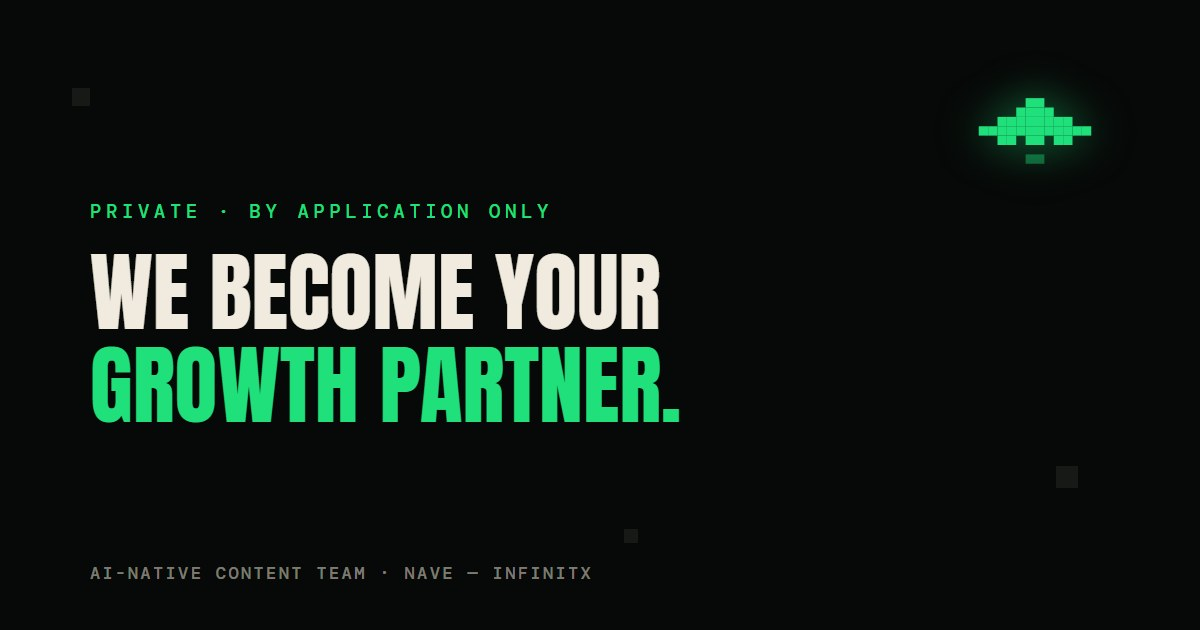
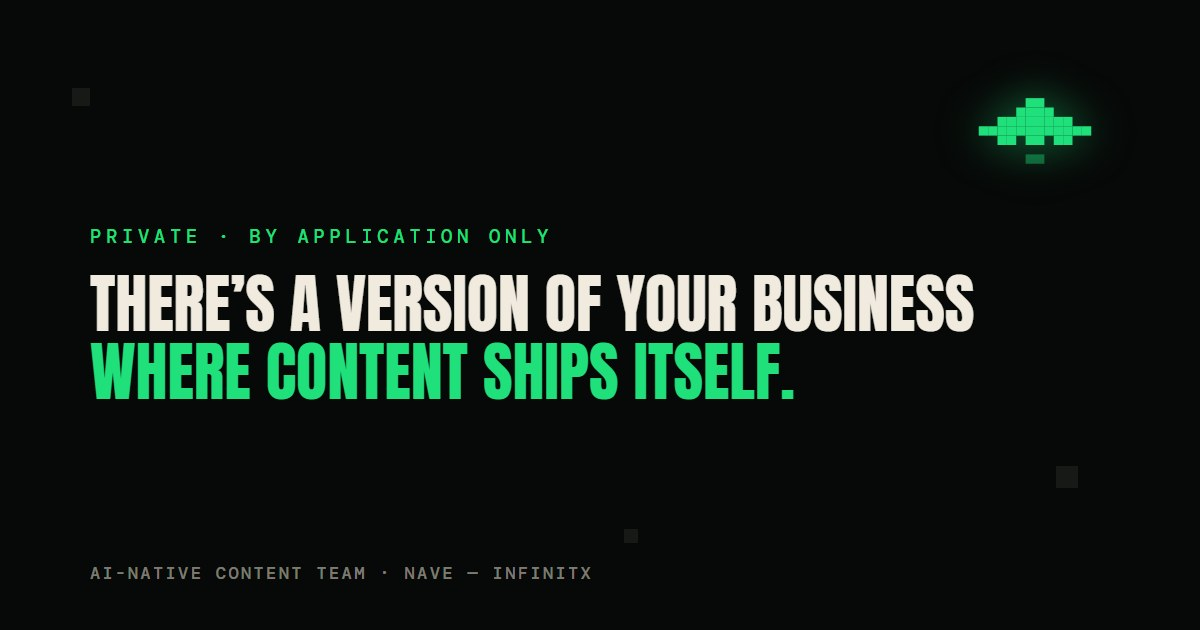
partner v2.1 — TRANSFORMATION POV per Enrique (his 10/100 verdict on the we-centric copy): hero now 'There's a version of your business WHERE CONTENT SHIPS ITSELF' (their destination, not our arrival); descent beats rewritten pain→landing→reveal ('Up here, every post still waits on you' → 'Where we'

Changed region(s): [[0.0617, 0.3016, 0.8325, 0.6937]]

diff --git a/partner.html b/partner.html
@@ -4,9 +4,9 @@
 <meta charset="utf-8">
 <meta name="viewport" content="width=device-width, initial-scale=1">
 <title>Nave — your AI-native content team · By application</title>
-<meta name="description" content="A private done-with-you engagement. We deploy an AI-native content team inside your business — strategy to engagement, systemized, run with you.">
+<meta name="description" content="There’s a version of your business where content ships itself. An AI-native content team, working inside your business — every stage systemized. By application.">
 <meta property="og:title" content="Nave — your AI-native content team · By application">
-<meta property="og:description" content="Your content department is about to land. AI-native, deployed inside your business, run with you.">
+<meta property="og:description" content="There’s a version of your business where content ships itself. An AI-native content team, inside your business. By application.">
 <meta property="og:image" content="https://nave.infinitxai.com/assets/partner-og.jpg">
 <meta name="twitter:card" content="summary_large_image">
 <meta name="robots" content="noindex">
@@ -85,6 +85,8 @@
   .stg-name{font-family:'Anton',sans-serif;text-transform:uppercase;font-size:25px;letter-spacing:.03em;color:var(--cream)}
   .stg-out{font-size:16.5px;line-height:1.6;color:var(--cream-72)}
   .stg-out b{color:var(--ink);font-weight:600}
+  .landedline{font-family:'Anton',sans-serif;font-weight:400;text-transform:uppercase;font-size:clamp(22px,3.2vw,38px);color:var(--cream);margin:44px 0 0}
+  .landedline em{font-style:normal;color:var(--ink)}
   @media(max-width:760px){.stg-row{grid-template-columns:1fr;gap:8px}.stg-n{padding-left:44px}}
 
   /* ── letter / for / airlock (quiet sections) ── */
@@ -117,9 +119,12 @@
   .appnote{font-family:'Newsreader',Georgia,serif;font-size:20px;line-height:1.7;color:var(--cream);margin:26px 0 36px;text-align:center}
   .appnote em{font-style:normal;color:var(--ink)}
   .afield{margin-bottom:18px}
+  .afield{counter-increment:fld}
   .afield label{display:block;font-family:'DM Mono',monospace;font-size:11px;letter-spacing:.16em;text-transform:uppercase;color:var(--cream-50);margin-bottom:8px}
+  .afield label::before{content:"0" counter(fld) " \00b7  ";color:var(--ink)}
+  #pform{counter-reset:fld}
   .afield input,.afield textarea{width:100%;background:rgba(15,21,17,.7);border:1px solid var(--line);color:var(--cream);font-family:'Hanken Grotesk',sans-serif;font-size:16px;padding:14px 16px;outline:none;transition:border-color .15s}
-  .afield input:focus,.afield textarea:focus{border-color:var(--line-strong)}
+  .afield input:focus,.afield textarea:focus{border-color:var(--line-strong);box-shadow:0 0 0 1px rgba(31,224,122,.25),0 0 24px rgba(31,224,122,.08)}
   .afield textarea{min-height:110px;resize:vertical}
   .appfoot{display:flex;align-items:center;gap:20px;flex-wrap:wrap;margin-top:28px}
   .ok{border:1px solid var(--line-strong);background:linear-gradient(180deg,rgba(31,224,122,.08),rgba(15,21,17,.7));padding:44px 46px;display:none}
@@ -161,24 +166,24 @@
   <div class="starlayer" id="stars1"></div>
   <div class="starlayer" id="stars2"></div>
   <div class="wrap hero-in">
-    <div class="kwrap"><span class="k"><span class="dot"></span>Incoming &middot; a private engagement &middot; one business at a time</span></div>
+    <div class="kwrap"><span class="k"><span class="dot"></span>A private crossing &middot; one business at a time</span></div>
     <svg class="heroship" id="heroship" viewBox="0 0 512 448" style="width:120px"><use href="#px-ship"/></svg>
     <h1>
-      <span class="hl"><span>Your content department</span></span>
-      <span class="hl"><span><em>is about to land.</em></span></span>
+      <span class="hl"><span>There&rsquo;s a version of your business</span></span>
+      <span class="hl"><span><em>where content ships itself.</em></span></span>
     </h1>
-    <p class="herosub">Nave is an <b>AI-native content team</b> we deploy inside your business &mdash; and run with you. You direct. It produces. <b>Nothing posts without your OK.</b></p>
+    <p class="herosub">An <b>AI-native content team</b>, living inside your business &mdash; every stage of your content production, <b>systemized</b>. You direct. It ships. Nothing posts without your OK.</p>
   </div>
-  <div class="scrollcue">Scroll to begin descent<s>&darr;</s></div>
+  <div class="scrollcue">Begin the descent<s>&darr;</s></div>
 </section>
 
 <!-- ── SCENE 2 · THE DESCENT ── -->
 <section id="descent">
   <div class="stage" id="dstage">
     <svg id="dship" viewBox="0 0 512 448" style="width:150px"><use href="#px-ship"/></svg>
-    <div class="beat" id="beat1">We don&rsquo;t sell you <em>software.</em></div>
-    <div class="beat" id="beat2">We don&rsquo;t sell you <em>hours.</em></div>
-    <div class="beat" id="beat3">We deploy <em>a crew.</em></div>
+    <div class="beat" id="beat1">Up here, every post still waits on <em>you.</em></div>
+    <div class="beat" id="beat2">Where we&rsquo;re landing, <em>it doesn&rsquo;t.</em></div>
+    <div class="beat" id="beat3">A content team &mdash; <em>AI-native</em> &mdash; alive inside your business.</div>
     <div class="crewring" id="crewring">
       <span class="cw" style="--c:#1FE07A;left:12%;top:22%"><svg viewBox="0 0 24 20" fill="#1FE07A"><use href="#px-scout"/></svg><i>strategist</i></span>
       <span class="cw" style="--c:#6C9BF0;left:6%;top:58%"><svg viewBox="0 0 24 20" fill="#6C9BF0"><use href="#px-writer"/></svg><i>copywriter</i></span>
@@ -197,8 +202,8 @@
   <div class="stage" id="istage">
     <div class="inst-head">
       <span class="k">AI-native &middot; not AI-assisted</span>
-      <h2>Installed <em>inside</em> your business.</h2>
-      <p class="inst-sub">Agencies bolt AI onto people. Here the department <b style="color:var(--cream)">is</b> the AI &mdash; built around your brand, wired to your platforms, directed with you.</p>
+      <h2>Your content production &mdash; <em>systemized.</em></h2>
+      <p class="inst-sub">Not advice. Not another tool. A working system built around <b style="color:var(--cream)">your brand</b>, wired to <b style="color:var(--cream)">your platforms</b> &mdash; run with you until it runs itself.</p>
     </div>
     <div class="term">
       <div class="bar"><b style="background:#ff5f57"></b><b style="background:#febc2e"></b><b style="background:#28c840"></b><span>your-business.os — installing</span></div>
@@ -216,7 +221,7 @@
 <section id="month">
   <div class="groundimg" id="groundimg"></div>
   <div class="wrap" style="position:relative">
-    <span class="k">Touchdown &middot; what gets systemized</span>
+    <span class="k">Touchdown &middot; your new default</span>
     <h2>Then the month <em>runs itself.</em></h2>
     <div class="stages">
       <div class="beamline"><i id="beamfill"></i></div>
@@ -227,6 +232,7 @@
       <div class="stg-row fade"><span class="stg-n">05</span><span class="stg-name">Distribution</span><span class="stg-out"><b>The month auto-scheduled</b> across your platforms &mdash; captions native to each.</span></div>
       <div class="stg-row fade"><span class="stg-n">06</span><span class="stg-name">Engagement</span><span class="stg-out">Inbox handled, comments answered &mdash; <b>every post feeds next month&rsquo;s plan.</b></span></div>
     </div>
+    <p class="landedline">This is the version of your business <em>you just landed in.</em></p>
     <p class="privline" style="margin-top:18px">Currently running for brands in home services, custom cabinetry and youth sports. We keep client names between us &mdash; yours will be too.</p>
   </div>
 </section>
@@ -269,6 +275,7 @@
 <!-- ── AIRLOCK · THE APPLICATION ── -->
 <section class="sect" id="airlock">
   <div class="wrap">
+    <div style="text-align:center;margin-bottom:18px"><span class="k"><span class="dot"></span>Step into it</span></div>
     <svg class="lockship" viewBox="0 0 512 448" style="width:92px"><use href="#px-ship"/></svg>
     <div class="lockbeam"></div>
     <h2>The airlock is open &mdash; <em>for a few.</em></h2>

diff --git a/partner/index.html b/partner/index.html
@@ -4,9 +4,9 @@
 <meta charset="utf-8">
 <meta name="viewport" content="width=device-width, initial-scale=1">
 <title>Nave — your AI-native content team · By application</title>
-<meta name="description" content="A private done-with-you engagement. We deploy an AI-native content team inside your business — strategy to engagement, systemized, run with you.">
+<meta name="description" content="There’s a version of your business where content ships itself. An AI-native content team, working inside your business — every stage systemized. By application.">
 <meta property="og:title" content="Nave — your AI-native content team · By application">
-<meta property="og:description" content="Your content department is about to land. AI-native, deployed inside your business, run with you.">
+<meta property="og:description" content="There’s a version of your business where content ships itself. An AI-native content team, inside your business. By application.">
 <meta property="og:image" content="https://nave.infinitxai.com/assets/partner-og.jpg">
 <meta name="twitter:card" content="summary_large_image">
 <meta name="robots" content="noindex">
@@ -85,6 +85,8 @@
   .stg-name{font-family:'Anton',sans-serif;text-transform:uppercase;font-size:25px;letter-spacing:.03em;color:var(--cream)}
   .stg-out{font-size:16.5px;line-height:1.6;color:var(--cream-72)}
   .stg-out b{color:var(--ink);font-weight:600}
+  .landedline{font-family:'Anton',sans-serif;font-weight:400;text-transform:uppercase;font-size:clamp(22px,3.2vw,38px);color:var(--cream);margin:44px 0 0}
+  .landedline em{font-style:normal;color:var(--ink)}
   @media(max-width:760px){.stg-row{grid-template-columns:1fr;gap:8px}.stg-n{padding-left:44px}}
 
   /* ── letter / for / airlock (quiet sections) ── */
@@ -117,9 +119,12 @@
   .appnote{font-family:'Newsreader',Georgia,serif;font-size:20px;line-height:1.7;color:var(--cream);margin:26px 0 36px;text-align:center}
   .appnote em{font-style:normal;color:var(--ink)}
   .afield{margin-bottom:18px}
+  .afield{counter-increment:fld}
   .afield label{display:block;font-family:'DM Mono',monospace;font-size:11px;letter-spacing:.16em;text-transform:uppercase;color:var(--cream-50);margin-bottom:8px}
+  .afield label::before{content:"0" counter(fld) " \00b7  ";color:var(--ink)}
+  #pform{counter-reset:fld}
   .afield input,.afield textarea{width:100%;background:rgba(15,21,17,.7);border:1px solid var(--line);color:var(--cream);font-family:'Hanken Grotesk',sans-serif;font-size:16px;padding:14px 16px;outline:none;transition:border-color .15s}
-  .afield input:focus,.afield textarea:focus{border-color:var(--line-strong)}
+  .afield input:focus,.afield textarea:focus{border-color:var(--line-strong);box-shadow:0 0 0 1px rgba(31,224,122,.25),0 0 24px rgba(31,224,122,.08)}
   .afield textarea{min-height:110px;resize:vertical}
   .appfoot{display:flex;align-items:center;gap:20px;flex-wrap:wrap;margin-top:28px}
   .ok{border:1px solid var(--line-strong);background:linear-gradient(180deg,rgba(31,224,122,.08),rgba(15,21,17,.7));padding:44px 46px;display:none}
@@ -161,24 +166,24 @@
   <div class="starlayer" id="stars1"></div>
   <div class="starlayer" id="stars2"></div>
   <div class="wrap hero-in">
-    <div class="kwrap"><span class="k"><span class="dot"></span>Incoming &middot; a private engagement &middot; one business at a time</span></div>
+    <div class="kwrap"><span class="k"><span class="dot"></span>A private crossing &middot; one business at a time</span></div>
     <svg class="heroship" id="heroship" viewBox="0 0 512 448" style="width:120px"><use href="#px-ship"/></svg>
     <h1>
-      <span class="hl"><span>Your content department</span></span>
-      <span class="hl"><span><em>is about to land.</em></span></span>
+      <span class="hl"><span>There&rsquo;s a version of your business</span></span>
+      <span class="hl"><span><em>where content ships itself.</em></span></span>
     </h1>
-    <p class="herosub">Nave is an <b>AI-native content team</b> we deploy inside your business &mdash; and run with you. You direct. It produces. <b>Nothing posts without your OK.</b></p>
+    <p class="herosub">An <b>AI-native content team</b>, living inside your business &mdash; every stage of your content production, <b>systemized</b>. You direct. It ships. Nothing posts without your OK.</p>
   </div>
-  <div class="scrollcue">Scroll to begin descent<s>&darr;</s></div>
+  <div class="scrollcue">Begin the descent<s>&darr;</s></div>
 </section>
 
 <!-- ── SCENE 2 · THE DESCENT ── -->
 <section id="descent">
   <div class="stage" id="dstage">
     <svg id="dship" viewBox="0 0 512 448" style="width:150px"><use href="#px-ship"/></svg>
-    <div class="beat" id="beat1">We don&rsquo;t sell you <em>software.</em></div>
-    <div class="beat" id="beat2">We don&rsquo;t sell you <em>hours.</em></div>
-    <div class="beat" id="beat3">We deploy <em>a crew.</em></div>
+    <div class="beat" id="beat1">Up here, every post still waits on <em>you.</em></div>
+    <div class="beat" id="beat2">Where we&rsquo;re landing, <em>it doesn&rsquo;t.</em></div>
+    <div class="beat" id="beat3">A content team &mdash; <em>AI-native</em> &mdash; alive inside your business.</div>
     <div class="crewring" id="crewring">
       <span class="cw" style="--c:#1FE07A;left:12%;top:22%"><svg viewBox="0 0 24 20" fill="#1FE07A"><use href="#px-scout"/></svg><i>strategist</i></span>
       <span class="cw" style="--c:#6C9BF0;left:6%;top:58%"><svg viewBox="0 0 24 20" fill="#6C9BF0"><use href="#px-writer"/></svg><i>copywriter</i></span>
@@ -197,8 +202,8 @@
   <div class="stage" id="istage">
     <div class="inst-head">
       <span class="k">AI-native &middot; not AI-assisted</span>
-      <h2>Installed <em>inside</em> your business.</h2>
-      <p class="inst-sub">Agencies bolt AI onto people. Here the department <b style="color:var(--cream)">is</b> the AI &mdash; built around your brand, wired to your platforms, directed with you.</p>
+      <h2>Your content production &mdash; <em>systemized.</em></h2>
+      <p class="inst-sub">Not advice. Not another tool. A working system built around <b style="color:var(--cream)">your brand</b>, wired to <b style="color:var(--cream)">your platforms</b> &mdash; run with you until it runs itself.</p>
     </div>
     <div class="term">
       <div class="bar"><b style="background:#ff5f57"></b><b style="background:#febc2e"></b><b style="background:#28c840"></b><span>your-business.os — installing</span></div>
@@ -216,7 +221,7 @@
 <section id="month">
   <div class="groundimg" id="groundimg"></div>
   <div class="wrap" style="position:relative">
-    <span class="k">Touchdown &middot; what gets systemized</span>
+    <span class="k">Touchdown &middot; your new default</span>
     <h2>Then the month <em>runs itself.</em></h2>
     <div class="stages">
       <div class="beamline"><i id="beamfill"></i></div>
@@ -227,6 +232,7 @@
       <div class="stg-row fade"><span class="stg-n">05</span><span class="stg-name">Distribution</span><span class="stg-out"><b>The month auto-scheduled</b> across your platforms &mdash; captions native to each.</span></div>
       <div class="stg-row fade"><span class="stg-n">06</span><span class="stg-name">Engagement</span><span class="stg-out">Inbox handled, comments answered &mdash; <b>every post feeds next month&rsquo;s plan.</b></span></div>
     </div>
+    <p class="landedline">This is the version of your business <em>you just landed in.</em></p>
     <p class="privline" style="margin-top:18px">Currently running for brands in home services, custom cabinetry and youth sports. We keep client names between us &mdash; yours will be too.</p>
   </div>
 </section>
@@ -269,6 +275,7 @@
 <!-- ── AIRLOCK · THE APPLICATION ── -->
 <section class="sect" id="airlock">
   <div class="wrap">
+    <div style="text-align:center;margin-bottom:18px"><span class="k"><span class="dot"></span>Step into it</span></div>
     <svg class="lockship" viewBox="0 0 512 448" style="width:92px"><use href="#px-ship"/></svg>
     <div class="lockbeam"></div>
     <h2>The airlock is open &mdash; <em>for a few.</em></h2>